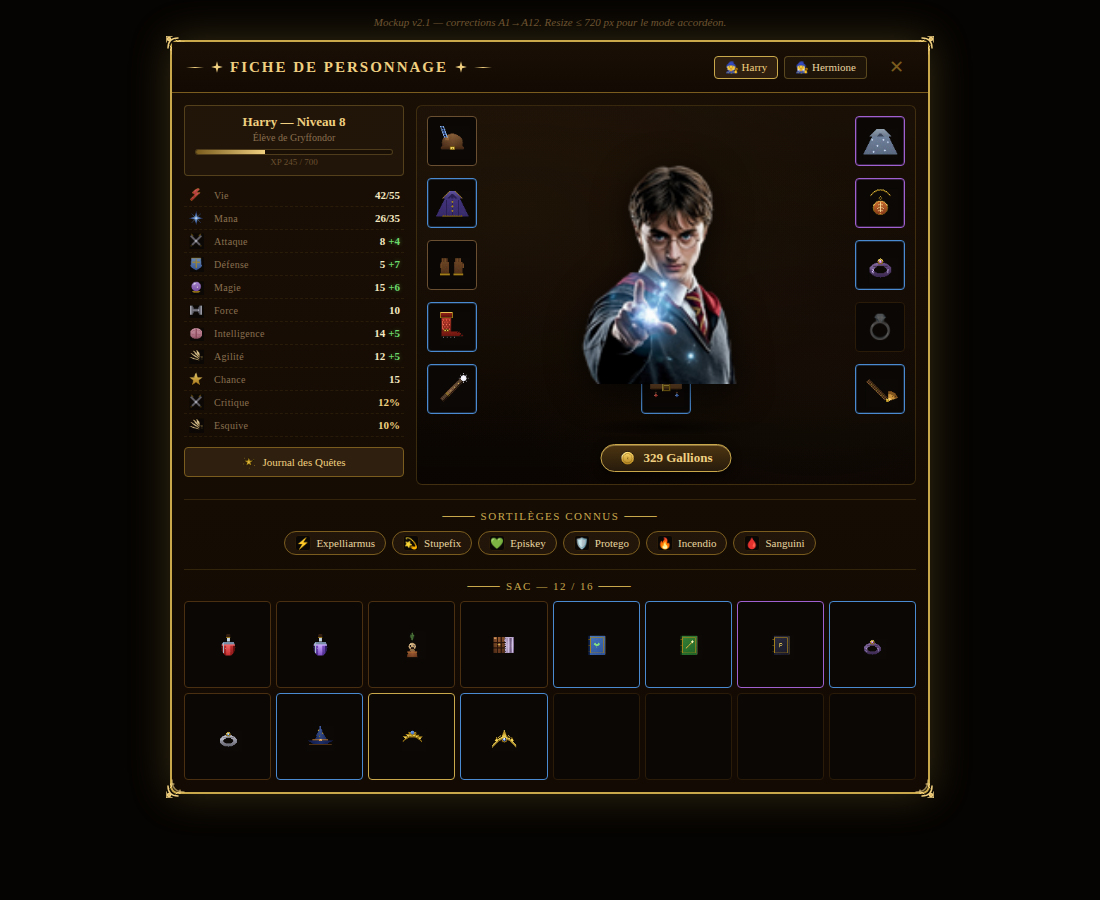
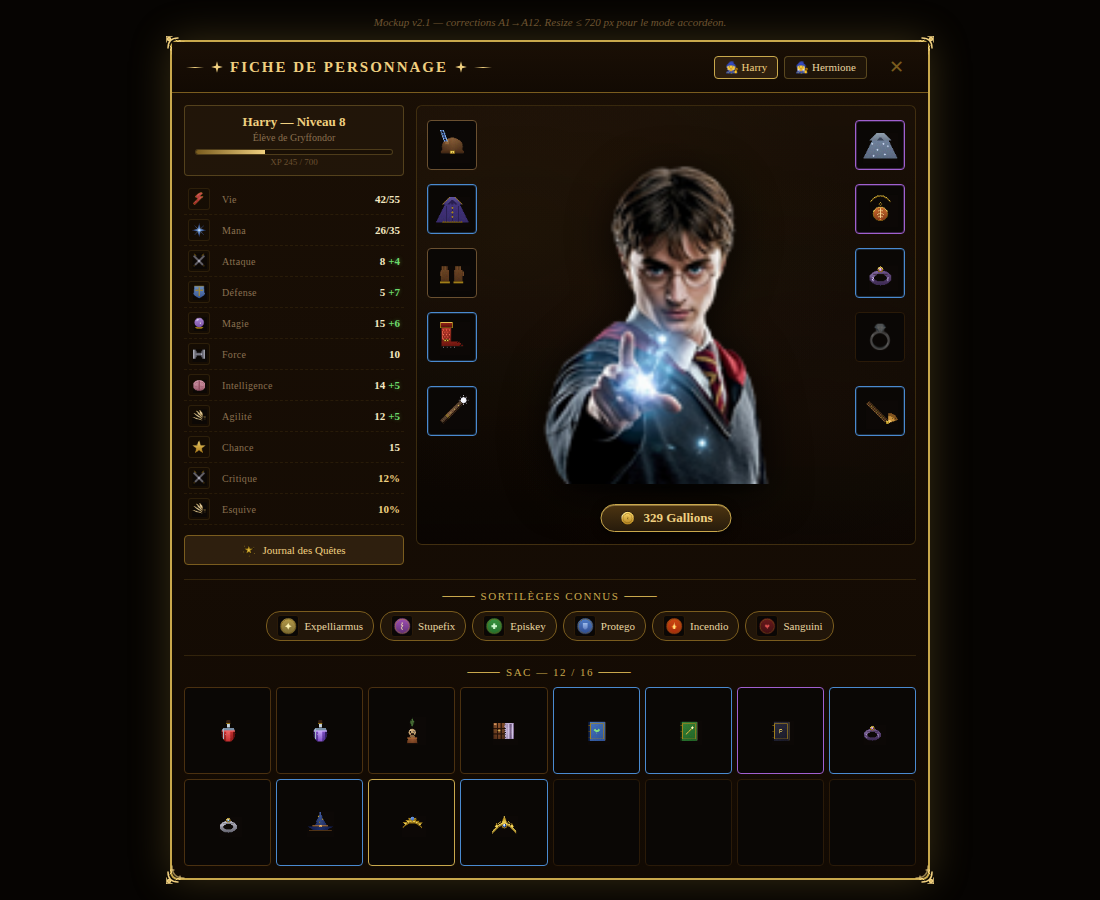
fix(character): mockup v2.2 — buste vraiment agrandi + sorts/stats en PNG
Auto-review honnête : la v2.1 prétendait avoir corrigé A1/A2 mais le
buste paraissait identique à v1 et les icônes stats/sorts étaient des
emojis. Bugs identifiés :

1. harry.png source 128×128 + width:220px/object-fit:contain → image
   contenue à 220×220 max. Solution : box 320×320 (upscale assumé).
2. Stats icons à 16px : illisibles, ressemblaient à des emojis.
   Solution : 22px + fond contrasté + bordure subtile.
3. Sortilèges : emojis ⚡💫💚🛡🔥🩸 alors qu'il existe un dossier
   img/icons/spells/ avec un PNG par sort. Honte. Corrigé.

Changements concrets :
- paper-doll 380→440px, pd-portrait 220×300→320×320
- stat-icon 16→22px, grid columns 20→26px
- spells-row : 6 spell-badge utilisent img/icons/spells/*.png
- Slots équipement repositionnés pour 440px de hauteur
- Mobile : pd-portrait 170×240→240×260 (bottom:90)

Limite connue : à 320px le buste masque partiellement le slot belt
(ceinture). Trade-off "perso imposant vs slot visible" à arbitrer
par l'utilisateur.

diff --git a/tools/mockup_character_v2.html b/tools/mockup_character_v2.html
@@ -161,13 +161,18 @@ body {
 
 .stat-line{
   display:grid;
-  grid-template-columns:20px 1fr auto;
-  align-items:center; gap:6px;
-  padding:3px 4px;
+  grid-template-columns:26px 1fr auto;
+  align-items:center; gap:8px;
+  padding:4px 4px;
   border-bottom:1px dashed rgba(122,92,30,0.18);
 }
-/* A2 — icônes PNG du jeu */
-.stat-line .stat-icon{ width:16px; height:16px; opacity:0.92; }
+/* A2 — icônes PNG du jeu, taille suffisante pour ne pas passer pour des emojis */
+.stat-line .stat-icon{
+  width:22px; height:22px; opacity:0.95;
+  background:rgba(20,12,4,0.55);
+  border-radius:3px; padding:2px;
+  border:1px solid rgba(122,92,30,0.25);
+}
 .stat-line .stat-label{ color:#8a7050; font-size:10px; letter-spacing:0.3px; }
 .stat-line .stat-value{ color:var(--parchment); font-weight:600; font-variant-numeric:tabular-nums; font-size:11px; }
 /* A12 — bonus vert vif gras */
@@ -189,30 +194,31 @@ body {
 /* =====================  PAPER DOLL (A1, A7, A9)  ===================== */
 .paper-doll{
   position:relative;
-  height:380px;
+  height:440px;                                /* A1bis — hauteur augmentée pour absorber buste 320 */
   background:var(--bg-parchment);              /* A9 — texture parchemin subtile */
   border:1px solid rgba(122,92,30,0.40);
   border-radius:6px;
   overflow:hidden;
 }
-/* A1 — buste élargi en hauteur, prend toute la zone centrale verticale */
+/* A1bis — buste VRAIMENT agrandi (source 128×128 → upscale assumé). */
 .paper-doll .pd-portrait{
   position:absolute;
   left:50%; bottom:60px;
   transform:translateX(-50%);
-  width:220px; height:300px;
+  width:320px; height:320px;
   object-fit:contain;
-  filter:drop-shadow(0 6px 18px rgba(0,0,0,0.7));
+  image-rendering:auto;
+  filter:drop-shadow(0 8px 22px rgba(0,0,0,0.75));
   z-index:2;
   pointer-events:none;
 }
 /* Socle / podium subtil sous le perso */
 .paper-doll::before{
   content:''; position:absolute;
-  left:50%; bottom:48px;
+  left:50%; bottom:46px;
   transform:translateX(-50%);
-  width:160px; height:18px;
-  background:radial-gradient(ellipse at center, rgba(0,0,0,0.55), transparent 70%);
+  width:220px; height:22px;
+  background:radial-gradient(ellipse at center, rgba(0,0,0,0.65), transparent 70%);
   z-index:1; pointer-events:none;
 }
 
@@ -255,18 +261,18 @@ body {
 .equip-slot img{ width:36px; height:36px; object-fit:contain; }
 .equip-slot.empty .slot-emoji{ opacity:0.35; filter:grayscale(70%); }
 
-/* Position des 11 slots — paper doll élargi 380px */
-.equip-slot-head    { top:  10px; left:  10px; }
-.equip-slot-body    { top:  72px; left:  10px; }
-.equip-slot-hands   { top: 134px; left:  10px; }
-.equip-slot-feet    { top: 196px; left:  10px; }
-.equip-slot-cloak   { top:  10px; right: 10px; }
-.equip-slot-amulet  { top:  72px; right: 10px; }
-.equip-slot-ring1   { top: 134px; right: 10px; }
-.equip-slot-ring2   { top: 196px; right: 10px; }
-.equip-slot-wand    { top: 258px; left:  10px; }
-.equip-slot-trinket { top: 258px; right: 10px; }
-.equip-slot-belt    { top: 258px; left:  50%; transform:translateX(-50%); }
+/* Position des 11 slots — paper doll 440px */
+.equip-slot-head    { top:  14px; left:  10px; }
+.equip-slot-body    { top:  78px; left:  10px; }
+.equip-slot-hands   { top: 142px; left:  10px; }
+.equip-slot-feet    { top: 206px; left:  10px; }
+.equip-slot-cloak   { top:  14px; right: 10px; }
+.equip-slot-amulet  { top:  78px; right: 10px; }
+.equip-slot-ring1   { top: 142px; right: 10px; }
+.equip-slot-ring2   { top: 206px; right: 10px; }
+.equip-slot-wand    { top: 280px; left:  10px; }
+.equip-slot-trinket { top: 280px; right: 10px; }
+.equip-slot-belt    { top: 280px; left:  50%; transform:translateX(-50%); }
 
 /* =====================  TOOLTIP (A11)  ===================== */
 .tooltip{
@@ -335,13 +341,14 @@ body {
   font-size:11px; color:var(--parchment-dk);
 }
 .spell-badge .icon{
-  width:16px; height:16px;
+  width:22px; height:22px;
   background:var(--slot-bg);
   border:1px solid var(--slot-border);
   border-radius:3px;
   display:flex; align-items:center; justify-content:center;
-  font-size:11px;
+  padding:1px;
 }
+.spell-badge .icon img{ width:100%; height:100%; object-fit:contain; }
 
 /* =====================  INVENTAIRE INTÉGRÉ (A5)  ===================== */
 .inv-grid{
@@ -374,9 +381,9 @@ body {
   .tab          { font-size:10px; padding:2px 8px; }
   .char-grid    { grid-template-columns:1fr; gap:6px; }
   .section-toggle { display:block; }
-  /* A10 — mobile : perso remonté, moins d'overlap slot belt */
-  .paper-doll   { height:340px; }
-  .paper-doll .pd-portrait { width:170px; height:240px; bottom:78px; }
+  /* A10 — mobile : perso agrandi mais sans déborder sur slot belt */
+  .paper-doll   { height:400px; }
+  .paper-doll .pd-portrait { width:240px; height:260px; bottom:90px; }
   .equip-slot   { width:44px; height:44px; font-size:20px; }
   .equip-slot img { width:30px; height:30px; }
   .equip-slot-head    { top:  8px; left:  8px; }
@@ -387,9 +394,9 @@ body {
   .equip-slot-amulet  { top: 62px; right: 8px; }
   .equip-slot-ring1   { top:116px; right: 8px; }
   .equip-slot-ring2   { top:170px; right: 8px; }
-  .equip-slot-wand    { top:226px; left:  8px; }
-  .equip-slot-trinket { top:226px; right: 8px; }
-  .equip-slot-belt    { top:226px; left: 50%; }
+  .equip-slot-wand    { top:240px; left:  8px; }
+  .equip-slot-trinket { top:240px; right: 8px; }
+  .equip-slot-belt    { top:240px; left: 50%; }
   .inv-grid { grid-template-columns:repeat(6, 1fr); }
 }
 </style>
@@ -559,12 +566,12 @@ body {
       <div class="section-content">
         <div class="panel-title">⸻ SORTILÈGES CONNUS ⸻</div>
         <div class="spells-row">
-          <span class="spell-badge"><span class="icon">⚡</span>Expelliarmus</span>
-          <span class="spell-badge"><span class="icon">💫</span>Stupefix</span>
-          <span class="spell-badge"><span class="icon">💚</span>Episkey</span>
-          <span class="spell-badge"><span class="icon">🛡</span>Protego</span>
-          <span class="spell-badge"><span class="icon">🔥</span>Incendio</span>
-          <span class="spell-badge"><span class="icon">🩸</span>Sanguini</span>
+          <span class="spell-badge"><span class="icon"><img src="../img/icons/spells/expelliarmus.png" alt=""></span>Expelliarmus</span>
+          <span class="spell-badge"><span class="icon"><img src="../img/icons/spells/stupefix.png" alt=""></span>Stupefix</span>
+          <span class="spell-badge"><span class="icon"><img src="../img/icons/spells/episkey.png" alt=""></span>Episkey</span>
+          <span class="spell-badge"><span class="icon"><img src="../img/icons/spells/protego.png" alt=""></span>Protego</span>
+          <span class="spell-badge"><span class="icon"><img src="../img/icons/spells/incendio.png" alt=""></span>Incendio</span>
+          <span class="spell-badge"><span class="icon"><img src="../img/icons/spells/sanguini.png" alt=""></span>Sanguini</span>
         </div>
       </div>
     </div>
